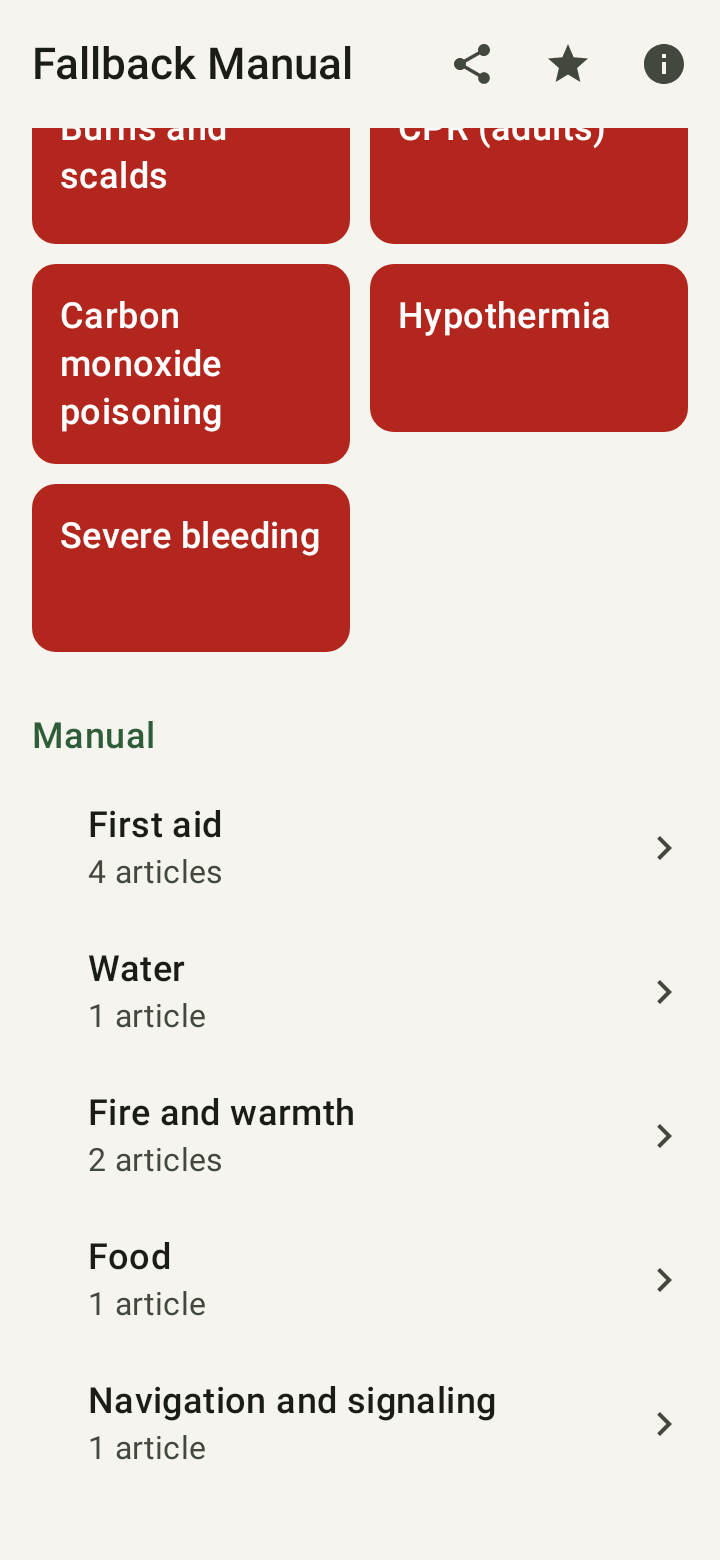
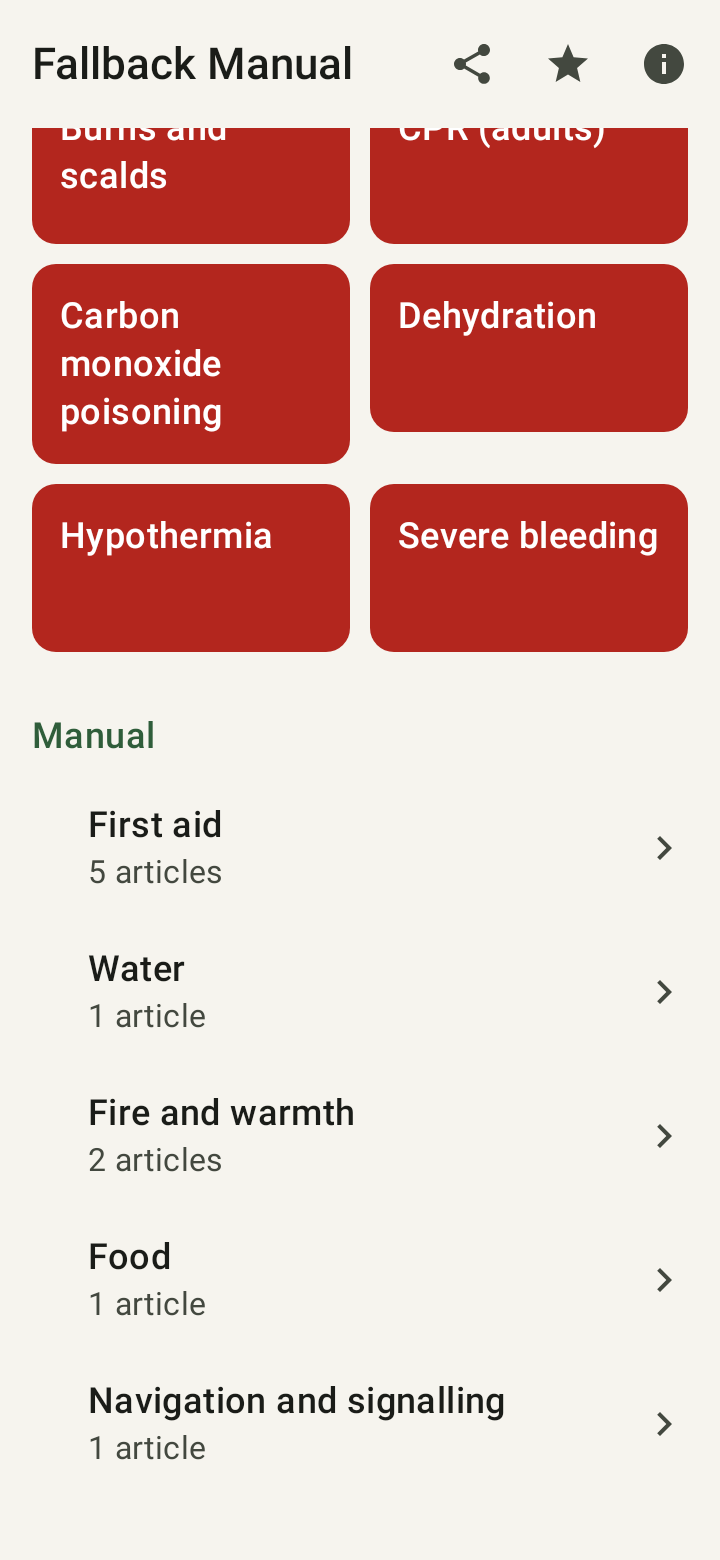
Update screen test for the renamed category title
The test scrolled to 'Navigation and signaling', which this PR renamed
to 'Navigation and signalling'.

Claude-Session: https://claude.ai/code/session_01Jb7VzuWtb7rsGemBPkMZUa

diff --git a/android/app/src/test/kotlin/app/fallbackmanual/AppScreensTest.kt b/android/app/src/test/kotlin/app/fallbackmanual/AppScreensTest.kt
@@ -50,7 +50,7 @@ class AppScreensTest {
         rule.onNodeWithText("Development build").assertExists()
         rule.onNodeWithText("Severe bleeding").assertExists()
         shot("01-home")
-        rule.onNode(hasScrollAction()).performScrollToNode(hasText("Navigation and signaling"))
+        rule.onNode(hasScrollAction()).performScrollToNode(hasText("Navigation and signalling"))
         shot("02-home-manual")
     }
 
